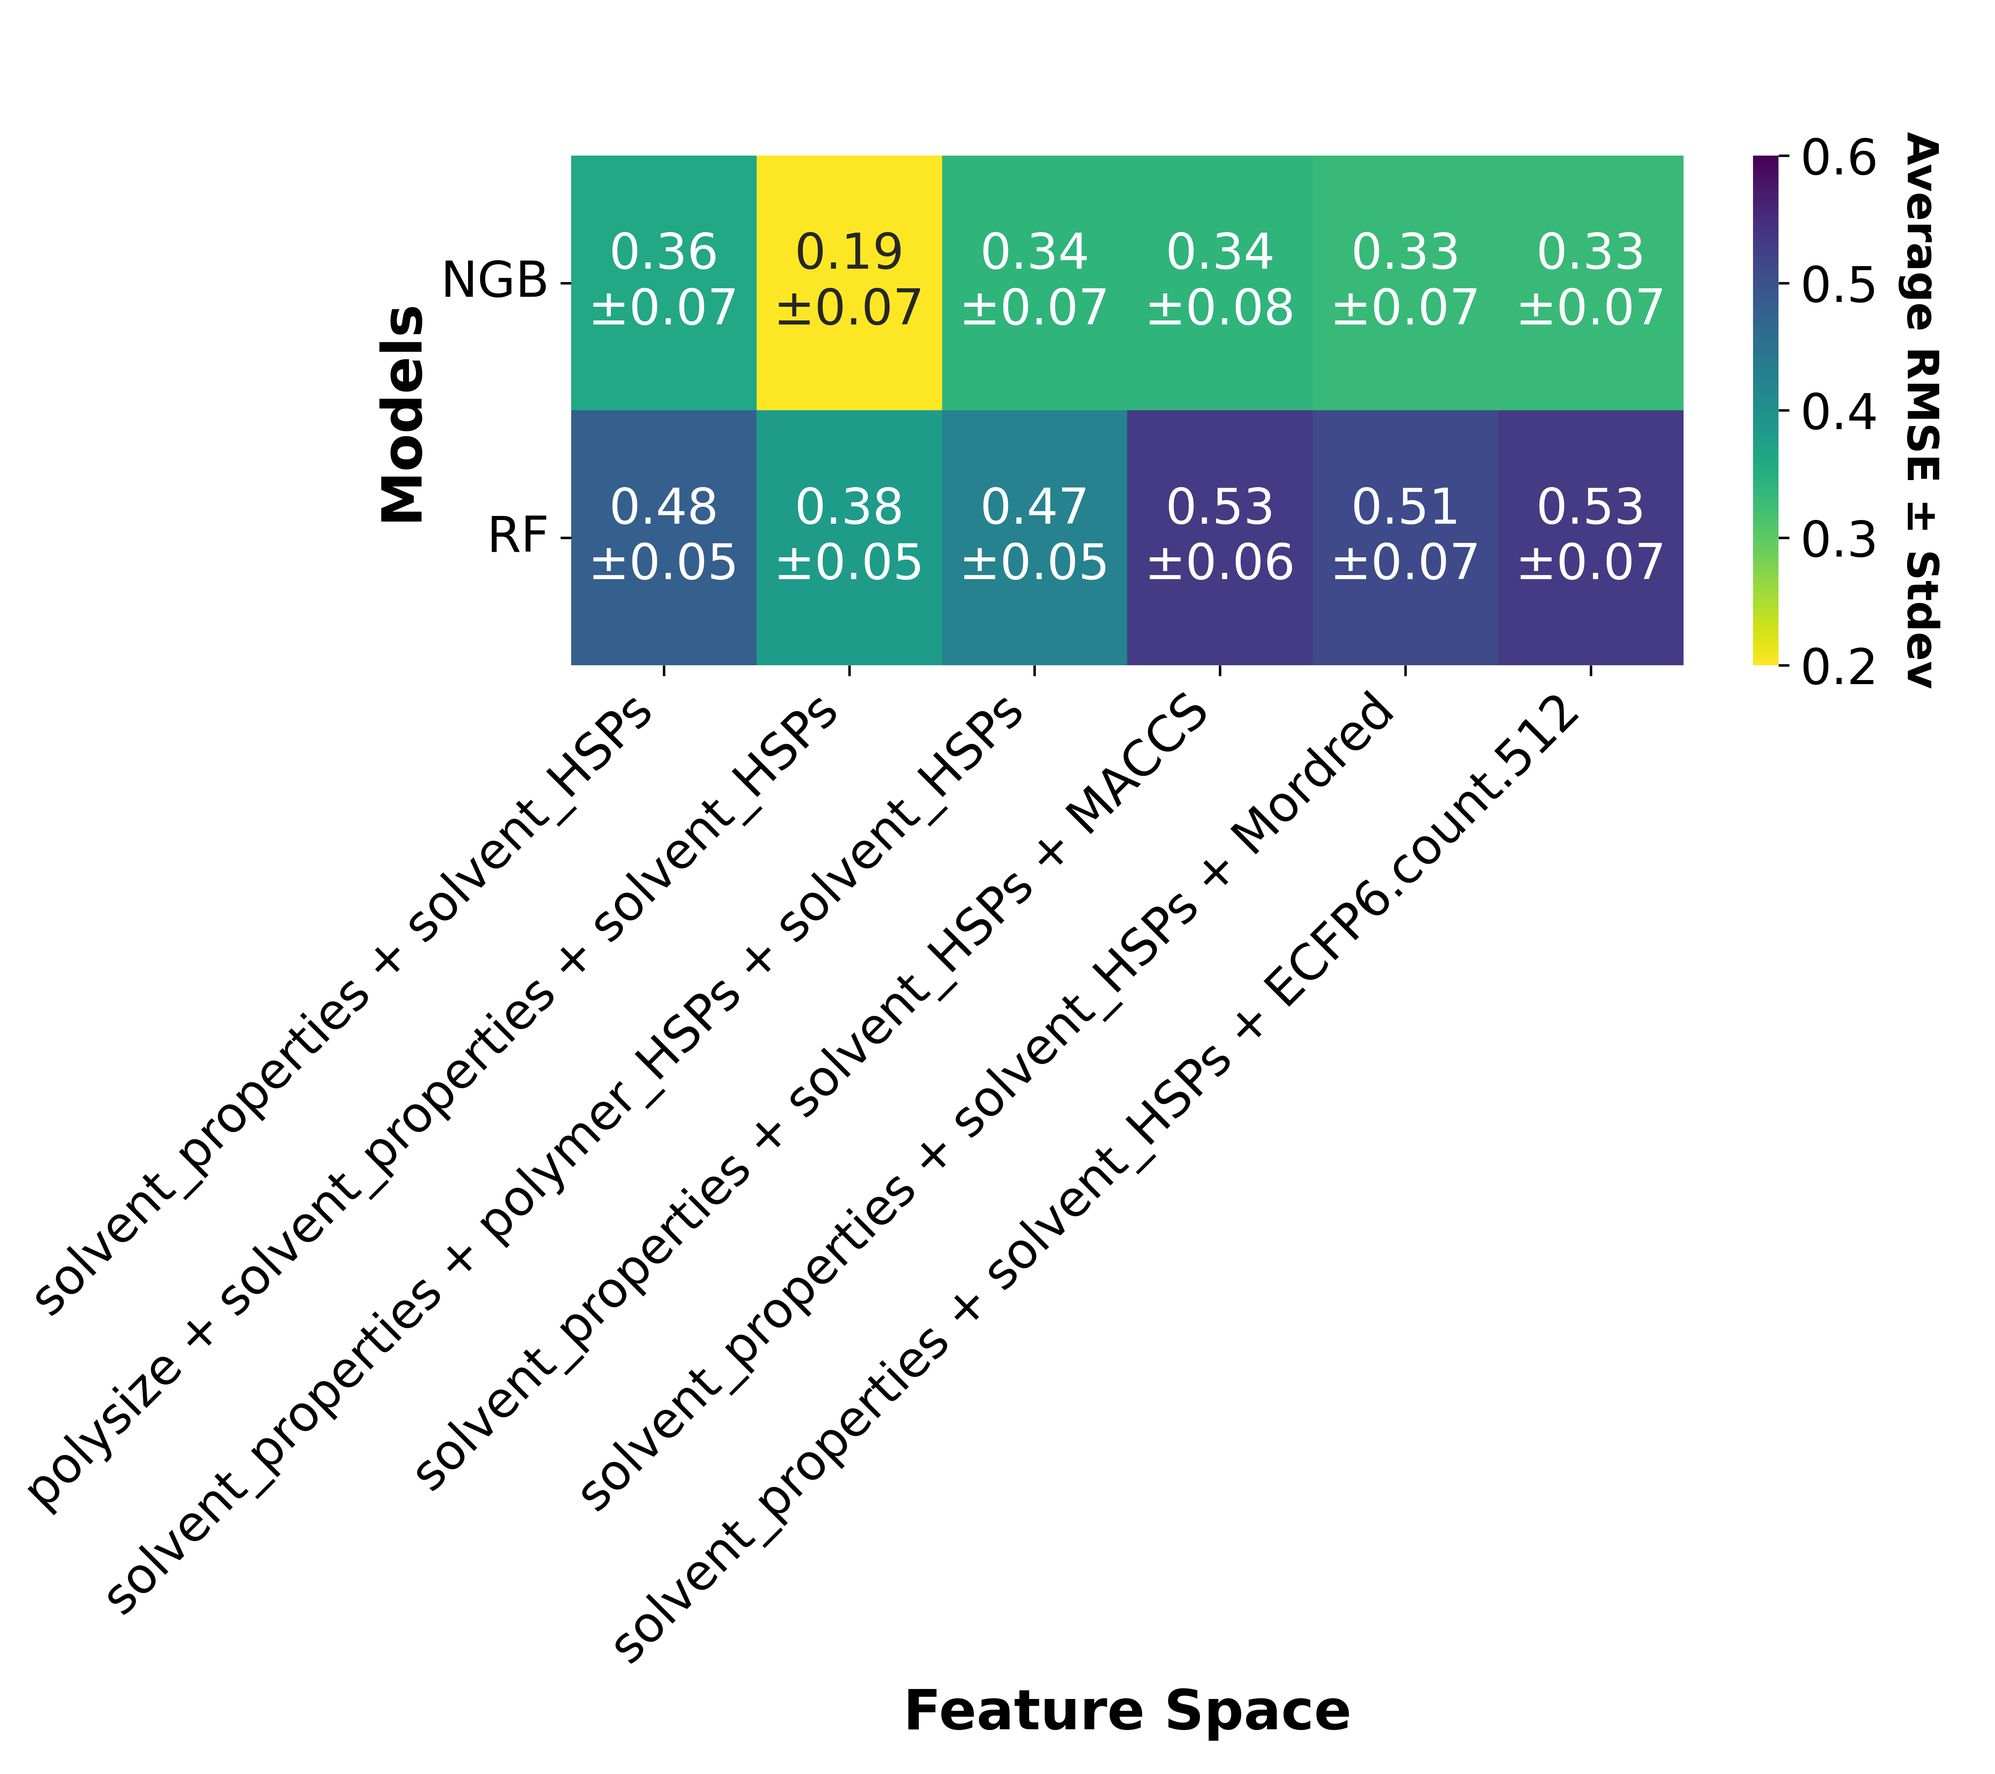
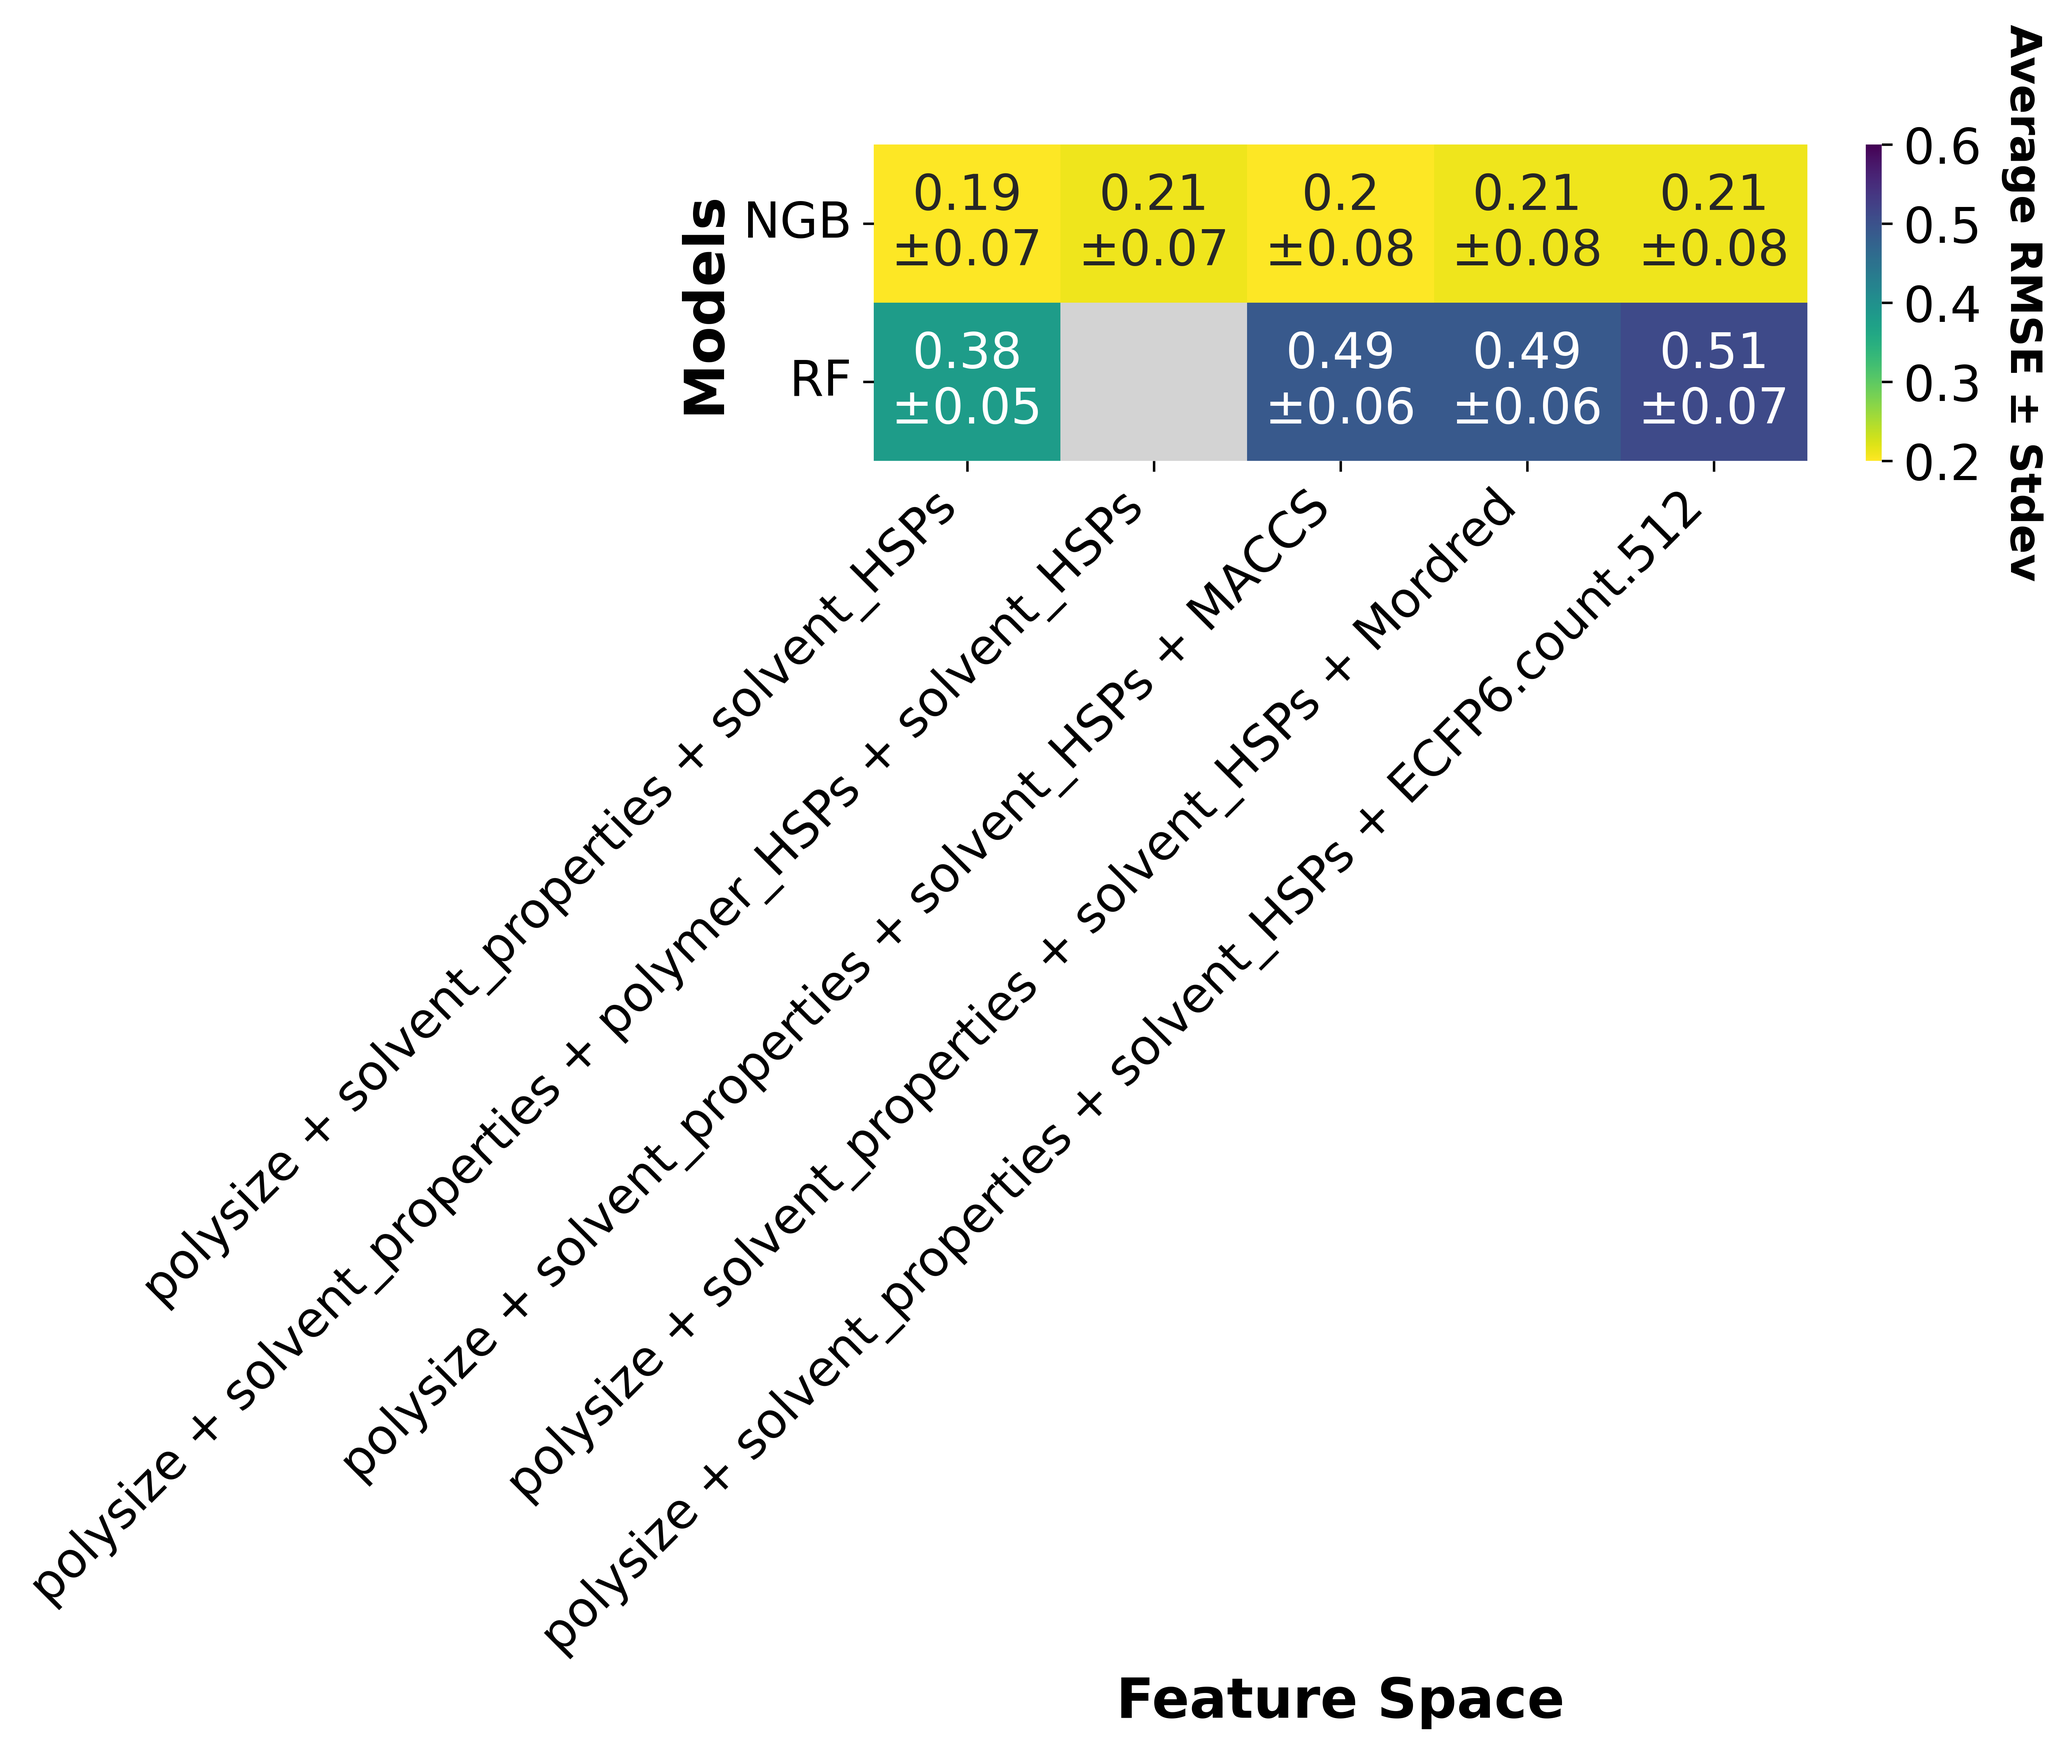
updated

diff --git a/code_/visualization/paper visualize_heatmap.py b/code_/visualization/paper visualize_heatmap.py
@@ -51,7 +51,7 @@ var_titles: dict[str, str] = {"stdev": "Standard Deviation", "stderr": "Standard
 def parse_property_string(prop_string):
     # Define the categories and their components
     categories = {
-        'polysize': ['DP','Mw', 'PDI'],
+        'polysize': ['Xn','Mw', 'PDI'],
         'solvent_properties': ['concentration', 'temperature'],
         'polymer_HSPs': ['polymer dP', 'polymer dD', 'polymer dH'],
         'solvent_HSPs': ['solvent dP', 'solvent dD', 'solvent dH'],
@@ -305,19 +305,20 @@ def _create_heatmap(
 def get_polymer_propeties_comparison(target_folder: Path,
                                      score: str,
                                      comparison_value: List[str],
+                                     features_to_draw: set[str] = None,
                                     ) -> pd.DataFrame:
     scores_to_report: List = []
     pattern: str = "*_scores.json"
 
     # Define the features you want to keep
-    selected_features: set = {
-        "solvent_properties + solvent_HSPs",
-        "polysize + solvent_properties + solvent_HSPs",
-        "solvent_properties + polymer_HSPs + solvent_HSPs",
-        "solvent_properties + solvent_HSPs + MACCS",
-        "solvent_properties + solvent_HSPs + Mordred",
-        "solvent_properties + solvent_HSPs + ECFP6.count.512",
-    }
+    # selected_features: set = {
+    #     "solvent_properties + solvent_HSPs",
+    #     "polysize + solvent_properties + solvent_HSPs",
+    #     "solvent_properties + polymer_HSPs + solvent_HSPs",
+    #     "solvent_properties + solvent_HSPs + MACCS",
+    #     "solvent_properties + solvent_HSPs + Mordred",
+    #     "solvent_properties + solvent_HSPs + ECFP6.count.512",
+    # }
     selected_models: set = {
         "RF",
         "NGB",}
@@ -332,7 +333,7 @@ def get_polymer_propeties_comparison(target_folder: Path,
 
             feats, model, av, std = get_results_from_file(file_path=score_path, score=score)
             # Only keep selected features
-            if feats not in selected_features:
+            if feats not in features_to_draw:
                 continue
 
             if model not in selected_models:
@@ -676,49 +677,51 @@ def create_scaler_result(target_dir:Path,
 # simple_models = ['MLR','DT','RF']
 
 
-for transformer in transformer_list:
-    for target_folder in target_list:
-        for i in scores_list:
-            create_structural_scaler_result(target_dir=RESULTS/target_folder,target=f'{target_folder} with',
-                                                score=i,data_type='structural_scaler', transformer_type=transformer)
+# for transformer in transformer_list:
+#     for target_folder in target_list:
+#         for i in scores_list:
+#             create_structural_scaler_result(target_dir=RESULTS/target_folder,target=f'{target_folder} with',
+#                                                 score=i,data_type='structural_scaler', transformer_type=transformer)
             # create_scaler_result(target_dir=RESULTS/target_folder,target=f'{target_folder} with',
             #                     score=i,var='stdev',data_type='scaler',transformer_type=transformer)
             
-# selected_features: set = [
-#     "solvent_properties + solvent_HSPs",
-#     "polysize + solvent_properties + solvent_HSPs",
-#     "solvent_properties + polymer_HSPs + solvent_HSPs",
-#     "solvent_properties + solvent_HSPs + MACCS",
-#     "solvent_properties + solvent_HSPs + Mordred",
-#     "solvent_properties + solvent_HSPs + ECFP6.count.512",
-# ]
+selected_features: set = [
+    # "solvent_properties + solvent_HSPs",
+    "polysize + solvent_properties + solvent_HSPs",
+    "polysize + solvent_properties + polymer_HSPs + solvent_HSPs",
+    # "solvent_properties + polymer_HSPs + solvent_HSPs",
+    "polysize + solvent_properties + solvent_HSPs + MACCS",
+    "polysize + solvent_properties + solvent_HSPs + Mordred",
+    "polysize + solvent_properties + solvent_HSPs + ECFP6.count.512",
+]
 
-# def creat_polymer_properties_comparison(target_dir:Path,
-#                                         score:str,
-#                                         comparison_value:List[str],
-#                                         ) -> None:
-#     scores_to_show:pd.DataFrame = get_polymer_propeties_comparison(target_folder=target_dir,
-#                                                                    score=score,
-#                                                                    comparison_value=comparison_value)
-#     score_txt: str = "$R^2$" if score == "r2" else score.upper()
-#     fname= f"model vs features in {score}"
-#     plot_manual_heatmap(root_dir=target_dir,
-#                         score=score,
-#                         score_to_show=scores_to_show,
-#                         figsize=(9, 8),
-#                         fig_title=f" \n ",
-#                         x_title="Feature Space",
-#                         y_title="Models",
-#                         fname=fname,
-#                         vmin=.2,
-#                         vmax=.6,
-#                         feature_order=selected_features,
-#                         # model_order=['RF','DT','MLR'],
-#                         num_ticks=5,
-#                         )
+def creat_polymer_properties_comparison(target_dir:Path,
+                                        score:str,
+                                        comparison_value:List[str],
+                                        ) -> None:
+    scores_to_show:pd.DataFrame = get_polymer_propeties_comparison(target_folder=target_dir,
+                                                                   score=score,
+                                                                   comparison_value=comparison_value,
+                                                                   features_to_draw=selected_features)
+    score_txt: str = "$R^2$" if score == "r2" else score.upper()
+    fname= f"model vs features in {score}"
+    plot_manual_heatmap(root_dir=target_dir,
+                        score=score,
+                        score_to_show=scores_to_show,
+                        figsize=(9, 8),
+                        fig_title=f" \n ",
+                        x_title="Feature Space",
+                        y_title="Models",
+                        fname=fname,
+                        vmin=.2,
+                        vmax=.6,
+                        feature_order=selected_features,
+                        # model_order=['RF','DT','MLR'],
+                        num_ticks=5,
+                        )
 
 
-# creat_polymer_properties_comparison(target_dir=RESULTS/'target_log Rg (nm)',
-#                                     score='rmse',
-#                                     comparison_value=['scaler', 'Trimer_scaler'],
-#                                     )
+creat_polymer_properties_comparison(target_dir=RESULTS/'target_log Rg (nm)',
+                                    score='rmse',
+                                    comparison_value=['scaler', 'Trimer_scaler'],
+                                    )
